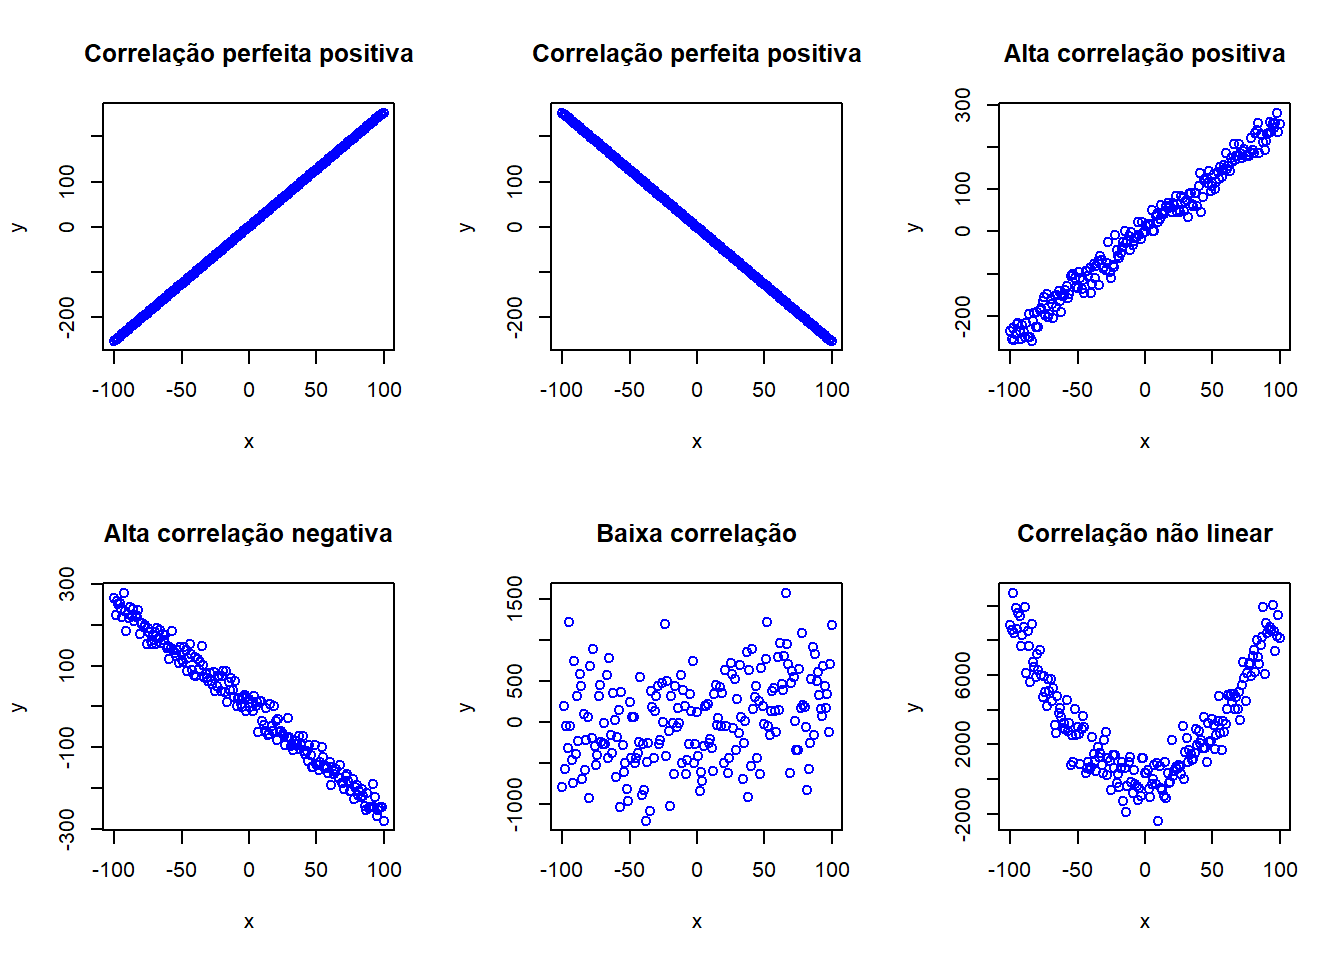
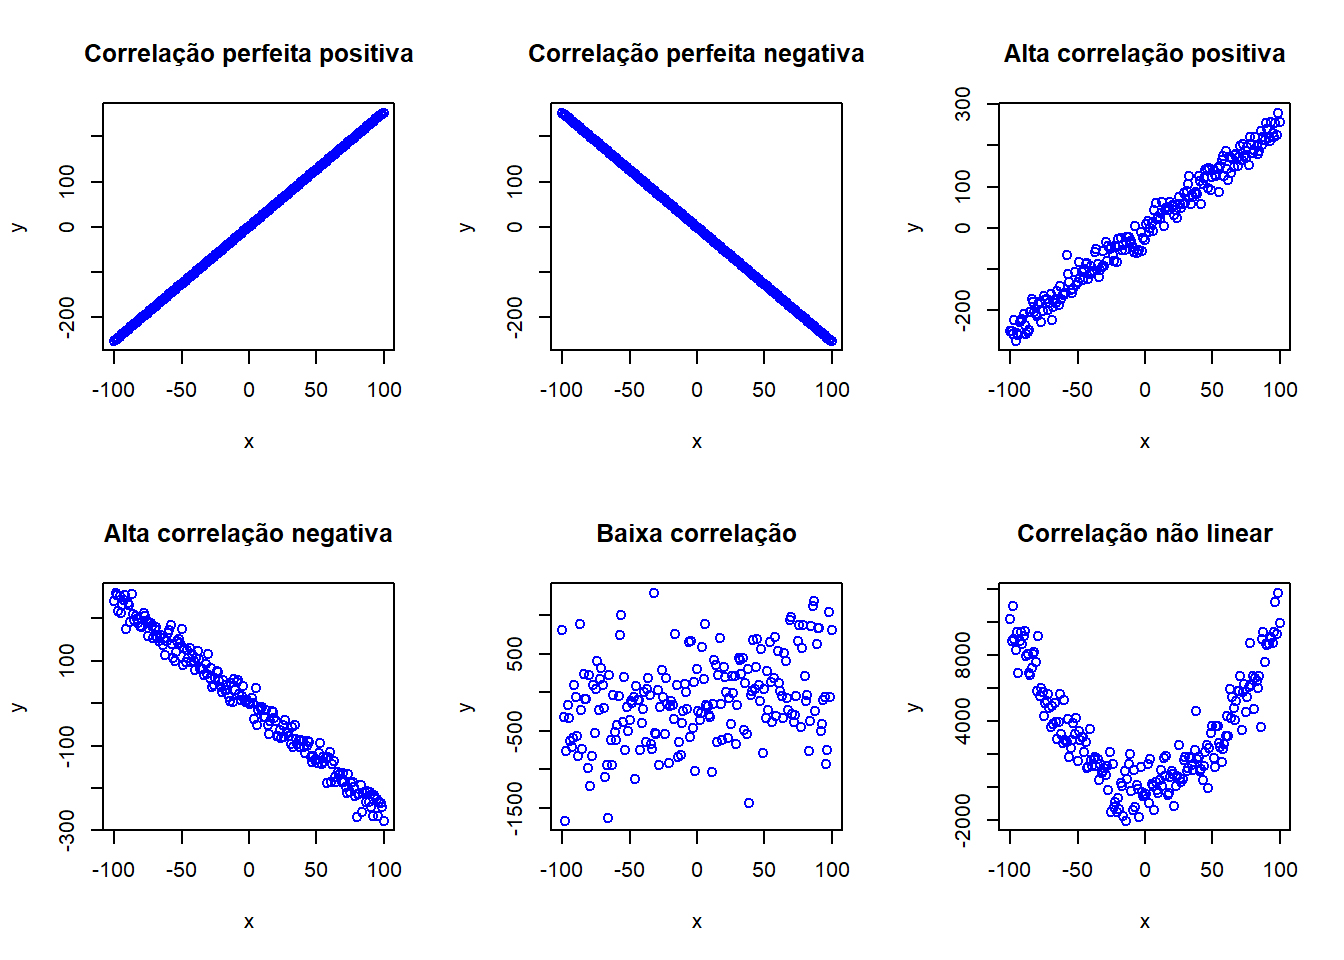
site

diff --git a/docs/aulas_modulo3.html b/docs/aulas_modulo3.html
@@ -359,7 +359,7 @@ $(document).ready(function () {
       <a href="slides/Modulo2_Aulas_123.pdf">Módulo2 - Inferência Estatística</a>
     </li>
     <li>
-      <a href="slides/Modulo3.pdf">Módulo 3 - Inferência Estatística II</a>
+      <a href="slides/Modulo3_Aula.pdf">Módulo 3 - Inferência Estatística II</a>
     </li>
   </ul>
 </li>
@@ -403,7 +403,7 @@ plot(x, y1, main = &quot;Correlação perfeita positiva&quot;,ylab = &quot;y&quo
 # Correlação perfeita negativa
 x&lt;-seq(-100, 100)
 y2&lt;- -x*2.53
-plot(x, y2, main = &quot;Correlação perfeita positiva&quot;,ylab = &quot;y&quot;,col=&quot;blue&quot;)
+plot(x, y2, main = &quot;Correlação perfeita negativa&quot;,ylab = &quot;y&quot;,col=&quot;blue&quot;)
 
 # Alta correlação positiva
 y3&lt;-rnorm(y1,y1,20)
